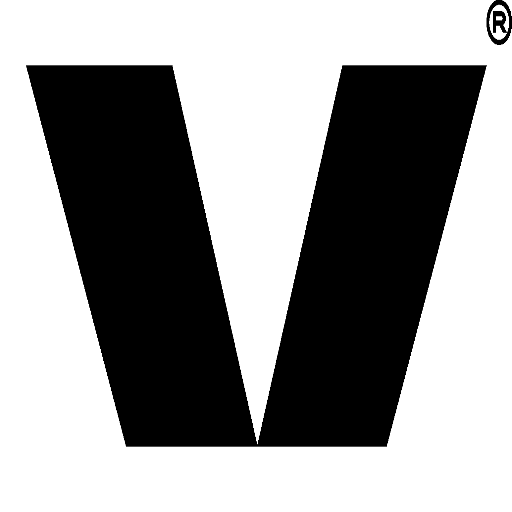
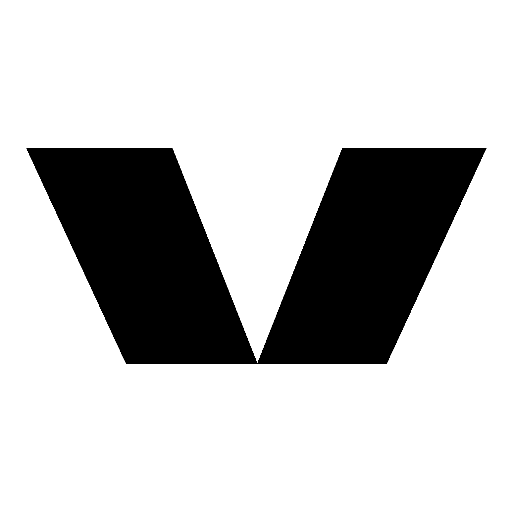
Add files via upload
- Tirar ®dos logos
- Trocar fonte de Open Sans para Termina

diff --git a/css/style.css b/css/style.css
@@ -134,7 +134,7 @@
   margin-top: 20px;
   font-size: 20px;
   cursor: pointer;
-  font-family: 'Open Sans', sans-serif;
+  font-family: "termina", sans-serif;
   font-weight: 800;
 }
 
@@ -259,7 +259,7 @@
 
 /* 1.6. contact IMG BACKGROUND */
 .contact-bg {
-  background-image: url(../img/contact/contact-bg.jpg);
+  background-image: url(../img/contact/contact-bg.png);
 }
 
 
@@ -511,7 +511,7 @@ html {
 
 /* 3. layout */
 body {
-  font-family: 'open sans', sans-serif;
+  font-family: "termina", sans-serif;
   font-size: 15px;
   line-height: 1.5;
   font-style: normal;
@@ -741,7 +741,7 @@ strong {
 }
 
 .section-title-subheading.section-title-subheading-home {
-  font-family: 'open sans', sans-serif;
+  font-family: "termina", sans-serif;
   font-size: 15px;
   font-style: normal;
   font-weight: 700;
@@ -766,7 +766,7 @@ strong {
 }
 
 .section-title-subheading {
-  font-family: 'open sans', sans-serif;
+  font-family: "termina", sans-serif;
   font-size: 15px;
   font-style: normal;
   font-weight: 700;
@@ -793,7 +793,7 @@ strong {
 .section-title-heading.section-title-heading-home {
   position: absolute;
   top: 3px;
-  font-family: 'open sans', sans-serif;
+  font-family: "termina", sans-serif;
   font-size: 120px;
   font-weight: 900;
   text-transform: uppercase;
@@ -818,7 +818,7 @@ strong {
 .section-title-heading {
   position: absolute;
   top: 3px;
-  font-family: 'open sans', sans-serif;
+  font-family: "termina", sans-serif;
   font-size: 120px;
   font-weight: 900;
   text-transform: uppercase;
@@ -843,7 +843,7 @@ strong {
 
 /* 4.2. section heading */
 h2.section-subheading {
-  font-family: 'open sans', sans-serif;
+  font-family: "termina", sans-serif;
   font-size: 13px;
   font-style: normal;
   font-weight: 600;
@@ -914,7 +914,7 @@ h2.section-subheading-light span:before {
 }
 
 .section-heading {
-  font-family: 'open sans', sans-serif;
+  font-family: "termina", sans-serif;
   font-size: 45px;
   font-weight: 700;
   text-transform: uppercase;
@@ -1094,11 +1094,11 @@ h2.section-subheading-light span:before {
 
 #menu-mobile {
   position: fixed;
-  font-family: 'open sans';
-  font-size: 40px;
+  font-family: "termina", sans-serif;
+  font-size: 30px;
   font-style: normal;
   text-transform: uppercase;
-  font-weight: 900;
+  font-weight: 800;
   letter-spacing: 1px;
   line-height: 2.25;
   width: 390px;
@@ -1155,7 +1155,7 @@ h2.section-subheading-light span:before {
   right: 0;
   margin-left: auto;
   margin-right: auto;
-  padding-left: 61px;
+  padding-left: ;
   text-align: left;
   list-style: none outside none;
 }
@@ -2373,7 +2373,7 @@ form {
   padding: 5px 5px;
   background: none;
   margin: 10px 0 10px 0;
-  font-family: 'open sans', sans-serif;
+  font-family: "termina", sans-serif;
   font-size: 13px;
   line-height: 1.5;
   font-style: normal;
@@ -2398,7 +2398,7 @@ textarea {
   padding: 5px 5px;
   background: none;
   margin: 5px;
-  font-family: 'open sans', sans-serif;
+  font-family: "termina", sans-serif;
   font-size: 13px;
   line-height: 1.5;
   font-style: normal;
@@ -2442,7 +2442,7 @@ textarea {
 }
 
 .success {
-  font-family: 'open sans', sans-serif;
+  font-family: "termina", sans-serif;
   font-size: 10px;
   font-style: normal;
   font-weight: 600;
@@ -3209,7 +3209,7 @@ a:focus.link-underline.link-underline-dark {
 
 /* 19. Magnific Popup v1.1.0 CUSTOM */
 .mfp-arrow-left:after {
-  font-family: "open sans";
+  font-family: "termina", sans-serif;
   content: "\f124";
   font-size: 18px;
   color: #fff;
@@ -3217,7 +3217,7 @@ a:focus.link-underline.link-underline-dark {
 }
 
 .mfp-arrow-right:after {
-  font-family: "open sans";
+  font-family: "termina", sans-serif;
   content: "\f125";
   font-size: 18px;
   color: #fff;
@@ -3240,7 +3240,7 @@ a:focus.link-underline.link-underline-dark {
 }
 
 .mfp-title {
-  font-family: 'open sans', sans-serif;
+  font-family: "termina", sans-serif;
   font-size: 13px;
   line-height: 1.5;
   font-style: normal;
@@ -3468,7 +3468,7 @@ button {
 
 .description h3,
 .description h4 {
-  font-family: 'open sans', sans-serif;
+  font-family: "termina", sans-serif;
   font-size: 15px;
   text-transform: uppercase;
   font-weight: 700;
@@ -3591,7 +3591,7 @@ button {
 .section-title-heading.section-title-heading-home {
   position: absolute;
   top: 3px;
-  font-family: 'open sans', ;
+  font-family: "termina", sans-serif;
   font-size: 80px;
   font-weight: 900;
   text-transform: uppercase;
@@ -3632,7 +3632,7 @@ button {
 .section-title-heading {
   position: absolute;
   top: 3px;
-  font-family: 'open sans', ;
+  font-family: "termina", sans-serif;
   font-size: 80px;
   font-weight: 900;
   text-transform: uppercase;
@@ -3662,7 +3662,7 @@ button {
 }
 
 .section-heading {
-  font-family: 'open sans', ;
+  font-family: "termina", sans-serif;
   font-size: 55px;
   font-weight: 700;
   text-transform: uppercase;
@@ -3938,7 +3938,7 @@ height: 100vh;
 }
 
 .facts-counter-number {
-  font-family: 'open sans', sans-serif;
+  font-family: "termina", sans-serif;
   font-size: 25px;
   font-weight: 600;
   text-transform: uppercase;
@@ -4157,7 +4157,7 @@ height: 100vh;
 
 .timeline .swiper-slide .timeline-year {
   display: block;
-  font-family: 'open sans', sans-serif;
+  font-family: "termina", sans-serif;
   font-size: 30px;
   line-height: 1;
   font-style: normal;
@@ -4190,7 +4190,7 @@ height: 100vh;
 }
 
 .timeline .swiper-slide .timeline-title {
-  font-family: 'open sans', ;
+  font-family: "termina", sans-serif;
   font-size: 80px;
   line-height: 1;
   font-style: normal;
@@ -4305,7 +4305,7 @@ height: 100vh;
 }
 
 .timeline .swiper-pagination {
-  font-family: 'open sans', sans-serif;
+  font-family: "termina", sans-serif;
   font-size: 15px;
   line-height: normal;
   font-style: italic;
@@ -4645,7 +4645,7 @@ height: 100vh;
 .mistify__slide-title {
   position: absolute;
   top: 3px;
-  font-family: 'open sans', ;
+  font-family: "termina", sans-serif;
   font-size: 80px;
   font-weight: 900;
   text-transform: uppercase;

diff --git a/index.html b/index.html
@@ -22,6 +22,9 @@
     <link
         href="http://fonts.googleapis.com/css?family=Poppins:400,400i,500,500i,600,600i,700,700i,800,800i,900,900i%7CRacing+Sans+One"
         rel="stylesheet" type="text/css"><!-- google fonts end -->
+    <!-- Adobe font start -->
+    <link rel="stylesheet" href="https://use.typekit.net/kkr5ylw.css">
+    <!-- Adobe font end -->
 </head>
 
 <body>
